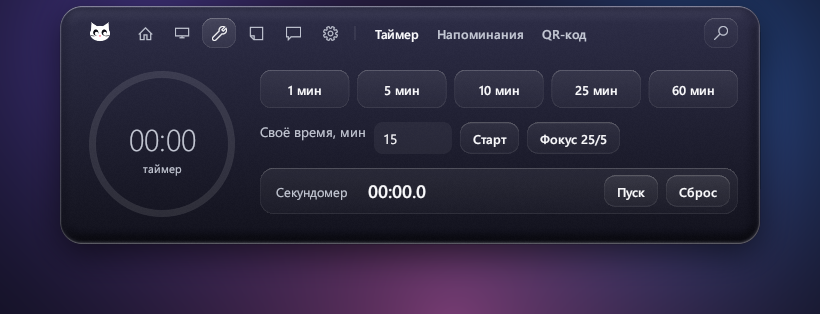
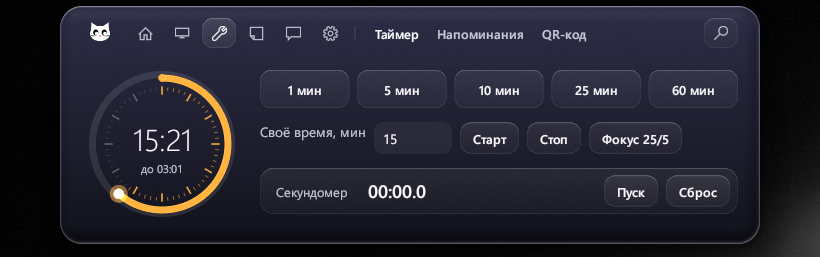
0.1.29: таймер-циферблат с делениями, светящимся концом дуги и временем окончания

diff --git a/src/main.rs b/src/main.rs
@@ -838,6 +838,12 @@ impl App {
                 app.show_toast("\u{E896}", [0x3A, 0x9B, 0xFF], "Загрузка завершена", "otchet-za-noyabr.pdf", 30, false);
             }
         }
+        // для снимков идущего таймера: OSTROVOK_TIMER=25 — таймер на 25 минут, прошло чуть больше трети
+        if let Some(m) = std::env::var("OSTROVOK_TIMER").ok().and_then(|v| v.parse::<f64>().ok()).filter(|_| test_mode()) {
+            app.start_timer(m);
+            app.timer_end = Some(Instant::now() + Duration::from_secs_f64(m * 60.0 * 0.62));
+            app.note = None;
+        }
         // для снимков пилюли со значком непрочитанных: OSTROVOK_UNREAD=3
         if let Some(n) = std::env::var("OSTROVOK_UNREAD").ok().and_then(|v| v.parse::<usize>().ok()).filter(|_| test_mode()) {
             for _ in 0..n {
@@ -3238,14 +3244,40 @@ impl App {
             None => ("00:00".to_string(), 0.0),
         };
         let live = self.timer_end.is_some();
-        ring(&p, c, 66.0, 7.0, frac, Color32::from_rgb(0xFF, 0xB3, 0x40));
+        let tone = match self.focus {
+            Some((true, _)) => Color32::from_rgb(0x7B, 0xE0, 0x9A), // перерыв — зелёный
+            _ => Color32::from_rgb(0xFF, 0xB3, 0x40),
+        };
+        // циферблат: 60 делений, каждое пятое длиннее; в работе оставшаяся часть подсвечена
+        for i in 0..60 {
+            let a = -std::f32::consts::FRAC_PI_2 + std::f32::consts::TAU * i as f32 / 60.0;
+            let dir = vec2(a.cos(), a.sin());
+            let major = i % 5 == 0;
+            let (r0, r1) = if major { (50.0, 57.0) } else { (53.5, 57.0) };
+            let lit = live && (i as f32) < frac * 60.0;
+            let col = if lit { mix(tone, BG, if major { 0.1 } else { 0.45 }) } else { rgba(255, 255, 255, if major { 70 } else { 28 }) };
+            p.line_segment([c + dir * r0, c + dir * r1], Stroke::new(if major { 1.6_f32 } else { 1.0 }, col));
+        }
+        ring(&p, c, 66.0, 7.0, frac, tone);
+        if live && frac > 0.003 {
+            // светящаяся точка на конце дуги
+            let a = -std::f32::consts::FRAC_PI_2 + std::f32::consts::TAU * frac;
+            let tip = c + vec2(a.cos(), a.sin()) * 66.0;
+            p.circle_filled(tip, 9.0, Color32::from_rgba_unmultiplied(tone.r(), tone.g(), tone.b(), 50));
+            p.circle_filled(tip, 5.0, Color32::WHITE);
+        }
         p.text(c - vec2(0.0, 5.0), Align2::CENTER_CENTER, text, light(30.0), if live { FG } else { DIM });
-        p.text(c + vec2(0.0, 24.0), Align2::CENTER_CENTER, match (live, self.focus) {
-                (true, Some((true, _))) => "перерыв",
-                (true, Some((false, _))) => "фокус",
-                (true, None) => "осталось",
-                _ => "таймер",
-            }, FontId::proportional(11.5), DIM);
+        let sub = match (live, self.focus) {
+            (true, Some((true, _))) => "перерыв".to_string(),
+            (true, Some((false, _))) => "фокус".to_string(),
+            (true, None) => {
+                let left = self.timer_end.map(|e| e.saturating_duration_since(Instant::now())).unwrap_or_default();
+                let at = chrono::Local::now() + chrono::Duration::from_std(left).unwrap_or_default();
+                format!("до {}", at.format("%H:%M"))
+            }
+            _ => "таймер".to_string(),
+        };
+        p.text(c + vec2(0.0, 24.0), Align2::CENTER_CENTER, sub, FontId::proportional(11.5), DIM);
 
         let mut side = ui.new_child(egui::UiBuilder::new().max_rect(Rect::from_min_max(pos2(area.left() + 178.0, area.top() + 4.0), area.max)));
         let ui = &mut side;
